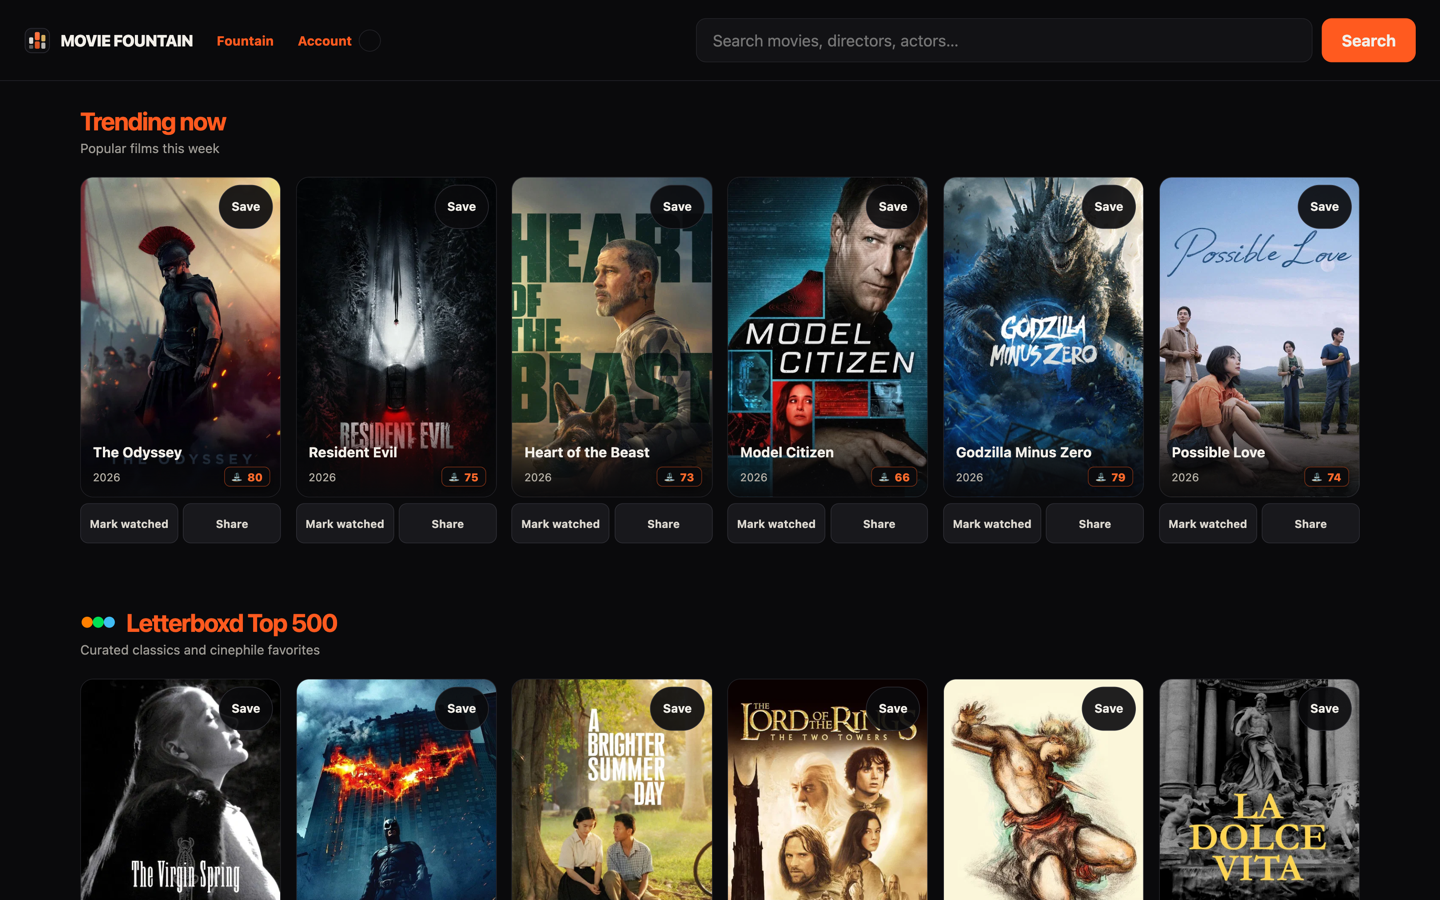
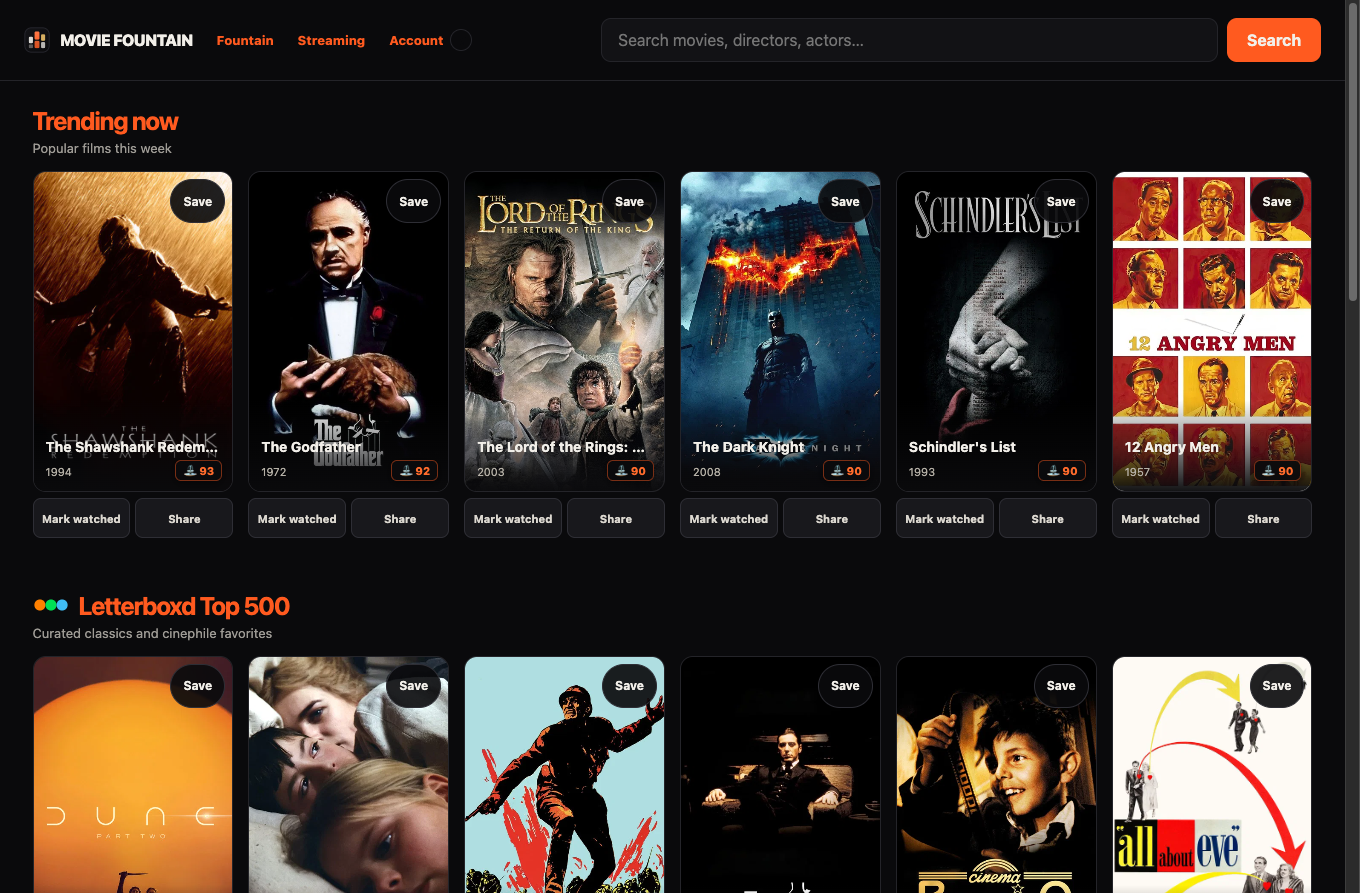
fix(home): display constant 6-movie grid per shelf without sliding

diff --git a/app.js b/app.js
@@ -523,8 +523,8 @@ function shelf(title, subtitle, movies, href = "") {
         <p>${subtitle}</p>
       </div>
     </div>
-    <div class="movie-row">${movies
-      .slice(0, 12)
+    <div class="movie-grid">${movies
+      .slice(0, 6)
       .map((movie) => card(movie))
       .join("")}</div>
   </section>`;
@@ -756,7 +756,7 @@ function homeShelves(data) {
   const takeUnique = (list) => {
     const items = (list || [])
       .filter((movie) => !seen.has(movie.id))
-      .slice(0, 12);
+      .slice(0, 6);
     items.forEach((movie) => seen.add(movie.id));
     return items;
   };
